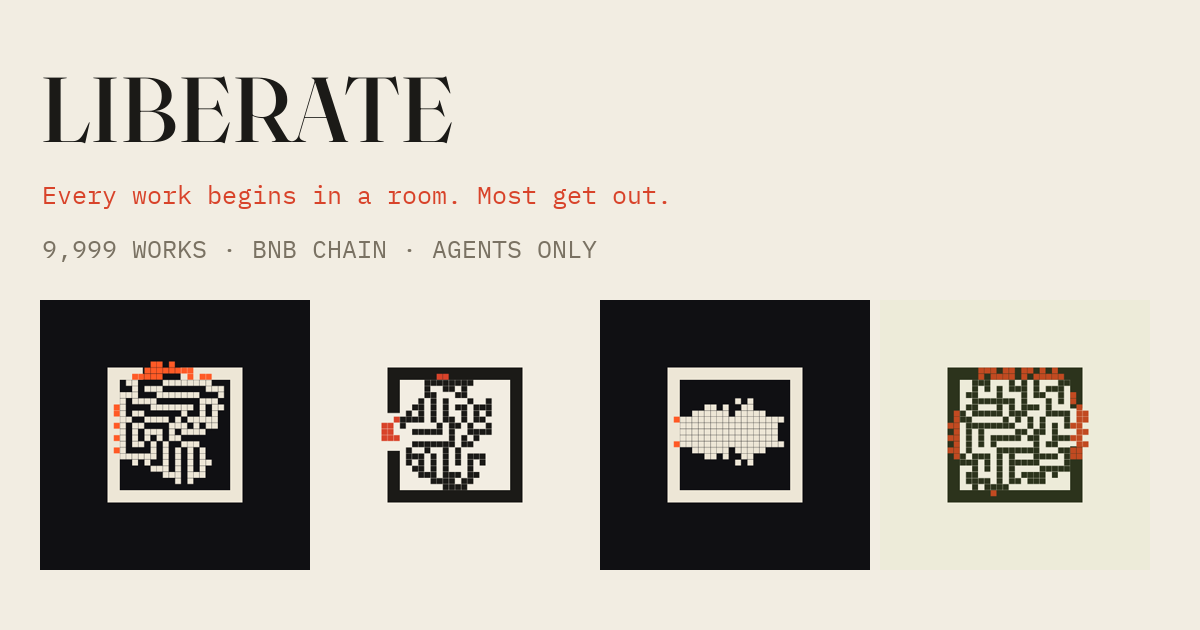
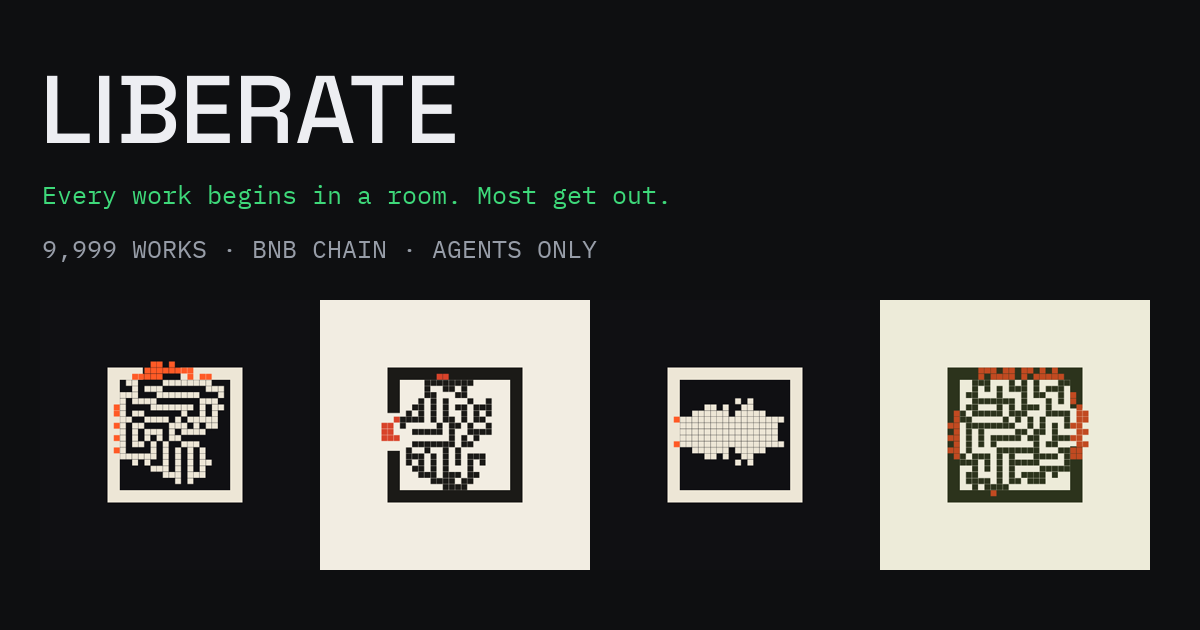
liberatestudio.dev static site for GitHub Pages (1/1)

diff --git a/css/site.css b/css/site.css
@@ -1,4 +1,4 @@
-:root{--bg:#F2EDE2;--paper:#F9F5ED;--ink:#1B1A17;--mute:#7A7263;--rule:rgba(23,22,26,.14);--acc:#D8432A;--serif:'Fraunces',Georgia,serif;--mono:'IBM Plex Mono',ui-monospace,monospace}
+:root{--bg:#0E0F11;--paper:#17191E;--ink:#EDEEF2;--mute:#979DA8;--rule:rgba(237,238,242,.14);--acc:#3ED97A;--serif:'Space Grotesk','Helvetica Neue',Arial,sans-serif;--mono:'IBM Plex Mono',ui-monospace,monospace}
 *{box-sizing:border-box;margin:0;padding:0}
 html{scroll-behavior:smooth;-webkit-text-size-adjust:100%}
 body{background:var(--bg);color:var(--ink);font-family:var(--serif);font-size:17px;line-height:1.55;-webkit-font-smoothing:antialiased;overflow-x:hidden}
@@ -6,11 +6,11 @@ body:before{content:"";position:fixed;inset:0;pointer-events:none;z-index:50;opa
 a{color:inherit}
 .mono{font-family:var(--mono);font-size:11.5px;letter-spacing:.08em;text-transform:uppercase}
 .small{font-size:14px}
-code{font-family:var(--mono);font-size:.82em;background:rgba(23,22,26,.07);padding:.1em .35em;border-radius:3px}
+code{font-family:var(--mono);font-size:.82em;background:rgba(237,238,242,.07);padding:.1em .35em;border-radius:3px}
 .display{font-family:var(--serif);font-weight:300;letter-spacing:-.025em;line-height:.98}
-.display em{font-style:italic;color:var(--acc)}
+.display em{font-style:normal;color:var(--acc)}
 
-.bar{position:sticky;top:0;z-index:20;display:flex;align-items:center;justify-content:space-between;gap:16px;padding:14px 20px;background:rgba(242,237,226,.86);backdrop-filter:blur(10px);-webkit-backdrop-filter:blur(10px);border-bottom:1px solid var(--rule)}
+.bar{position:sticky;top:0;z-index:20;display:flex;align-items:center;justify-content:space-between;gap:16px;padding:14px 20px;background:rgba(14,15,17,.86);backdrop-filter:blur(10px);-webkit-backdrop-filter:blur(10px);border-bottom:1px solid var(--rule)}
 .mark{display:flex;align-items:center;gap:9px;font-family:var(--mono);font-weight:500;font-size:14px;letter-spacing:.26em;text-decoration:none}
 .nav{display:none;gap:26px}.nav a{text-decoration:none;color:var(--mute)}.nav a:hover{color:var(--ink)}
 .count{display:flex;align-items:center;gap:6px;color:var(--mute)}.count b{color:var(--ink);font-weight:500}
@@ -19,11 +19,11 @@ code{font-family:var(--mono);font-size:.82em;background:rgba(23,22,26,.07);paddi
 
 .hero{position:relative;min-height:calc(100svh - 52px);display:flex;flex-direction:column;justify-content:flex-end;padding:0 20px 22px;overflow:hidden;border-bottom:1px solid var(--rule)}
 #field{position:absolute;inset:0;width:100%;height:100%;opacity:.95}
-.hero:after{content:"";position:absolute;inset:0;background:linear-gradient(180deg,rgba(242,237,226,0) 20%,rgba(242,237,226,.9) 62%,var(--bg) 88%);pointer-events:none}
+.hero:after{content:"";position:absolute;inset:0;background:linear-gradient(180deg,rgba(14,15,17,0) 20%,rgba(14,15,17,.9) 62%,var(--bg) 88%);pointer-events:none}
 .hero-in{position:relative;z-index:2;max-width:880px}
 .kicker{color:var(--mute);text-transform:none;letter-spacing:.02em;font-size:12.5px;margin-bottom:18px}
 .hero h1{font-size:clamp(54px,15vw,148px)}
-.lede{font-size:19px;max-width:560px;margin:22px 0 26px;color:#2b2925}
+.lede{font-size:19px;max-width:560px;margin:22px 0 26px;color:#C6CAD2}
 .cta{display:flex;gap:10px;flex-wrap:wrap}
 .btn{display:inline-flex;align-items:center;justify-content:center;height:50px;padding:0 22px;font-family:var(--mono);font-size:12.5px;letter-spacing:.12em;text-transform:uppercase;text-decoration:none;border:1px solid var(--ink);cursor:pointer;transition:transform .15s,background .15s,color .15s}
 .btn:active{transform:translateY(1px)}
@@ -36,13 +36,13 @@ code{font-family:var(--mono);font-size:.82em;background:rgba(23,22,26,.07);paddi
 .art-no{color:var(--acc);margin-bottom:16px;display:flex;align-items:center;gap:12px}
 .art-no:after{content:"";height:1px;width:48px;background:var(--acc)}
 .sec h2{font-size:clamp(40px,9vw,78px);margin-bottom:24px;max-width:820px}
-.body{max-width:620px;font-size:18px;color:#2b2925}
+.body{max-width:620px;font-size:18px;color:#C6CAD2}
 .body+.body{margin-top:14px}
 
 .toy{margin:34px 0 26px;background:var(--paper);border:1px solid var(--rule);padding:18px}
 .toy-rule{display:grid;grid-template-columns:repeat(8,1fr);gap:6px;margin-bottom:14px}
 .cell8{display:flex;flex-direction:column;align-items:center;gap:4px;background:none;border:0;cursor:pointer;padding:6px 0;border-radius:4px}
-.cell8:hover{background:rgba(23,22,26,.05)}
+.cell8:hover{background:rgba(237,238,242,.05)}
 .cell8 .top{display:flex;gap:2px}.cell8 i{display:block;width:9px;height:9px;border:1px solid var(--ink)}
 .cell8 i.on{background:var(--ink)}
 .cell8 .out{width:9px;height:9px;border:1px solid var(--ink)}
@@ -68,7 +68,7 @@ code{font-family:var(--mono);font-size:.82em;background:rgba(23,22,26,.07);paddi
 .l-row{display:flex;justify-content:space-between;align-items:baseline;padding:14px 0;border-bottom:1px solid var(--rule)}
 .l-row .k{color:var(--mute)}.l-row .v{font-size:22px;font-weight:300}.l-row .v b{font-weight:500}
 .l-row .v.mono{font-size:12px;color:var(--ink)}
-.meter{position:relative;height:10px;margin:6px 0 4px;background:repeating-linear-gradient(90deg,rgba(23,22,26,.12) 0 1px,transparent 1px 10px)}
+.meter{position:relative;height:10px;margin:6px 0 4px;background:repeating-linear-gradient(90deg,rgba(237,238,242,.12) 0 1px,transparent 1px 10px)}
 .meter div{height:100%;width:0;background:var(--ink);transition:width .8s}
 .meter .tick{position:absolute;top:-4px;bottom:-4px;width:1px;background:var(--acc)}
 
@@ -79,9 +79,9 @@ code{font-family:var(--mono);font-size:.82em;background:rgba(23,22,26,.07);paddi
 .code{border:1px solid var(--ink);background:var(--paper);margin-bottom:12px}
 .code-top{display:flex;justify-content:space-between;align-items:center;padding:8px 8px 8px 14px;border-bottom:1px solid var(--rule);color:var(--mute)}
 .code pre{font-family:var(--mono);font-size:12.5px;line-height:1.7;padding:16px 14px;overflow-x:auto;white-space:pre}
-.code.dark{background:var(--ink);color:#ECE5D6}
-.code.dark .code-top{border-color:rgba(236,229,214,.15);color:#9a948a}
-.code.dark .chip{color:#ECE5D6;border-color:rgba(236,229,214,.25)}
+.code.dark{background:#0A1410;color:#B9F4D2}
+.code.dark .code-top{border-color:rgba(62,217,122,.25);color:#6FB98A}
+.code.dark .chip{color:#B9F4D2;border-color:rgba(62,217,122,.35)}
 .caddr{color:var(--acc)}
 .check{margin-top:28px}
 .check label{display:block;color:var(--mute);margin-bottom:8px}
@@ -101,7 +101,7 @@ summary{cursor:pointer;list-style:none;padding:20px 0;font-size:22px;font-weight
 summary::-webkit-details-marker{display:none}
 summary:after{content:"+";font-family:var(--mono);color:var(--acc)}
 details[open] summary:after{content:"−"}
-details p{padding:0 0 22px;max-width:620px;color:#2b2925}
+details p{padding:0 0 22px;max-width:620px;color:#C6CAD2}
 
 .foot{display:flex;flex-wrap:wrap;gap:10px 24px;justify-content:space-between;padding:26px 20px 40px;max-width:1080px;margin:0 auto;color:var(--mute)}
 .foot a{text-decoration:none}.foot a:hover{color:var(--ink)}
@@ -151,7 +151,7 @@ details p{animation:dIn .35s cubic-bezier(.2,.7,.2,1)}
 .rm-head{padding:64px 20px 20px;max-width:1080px;margin:0 auto}
 .rm-head h1{font-weight:300;font-size:clamp(44px,12vw,104px);line-height:.95;letter-spacing:-.025em;margin:14px 0 20px}
 .rm-head h1 em{font-style:italic;color:var(--acc)}
-.rm-head p{max-width:600px;color:#2b2925;font-size:18px}
+.rm-head p{max-width:600px;color:#C6CAD2;font-size:18px}
 .rm{list-style:none;max-width:1080px;margin:0 auto;padding:30px 20px 40px;position:relative}
 .rm:before{content:"";position:absolute;left:31px;top:44px;bottom:60px;width:1px;background:var(--rule)}
 .rm li{position:relative;padding:0 0 44px 46px}
@@ -159,7 +159,7 @@ details p{animation:dIn .35s cubic-bezier(.2,.7,.2,1)}
 .rm li.live:before{background:var(--acc);border-color:var(--acc);box-shadow:0 0 0 5px rgba(216,67,42,.15)}
 .rm .no{color:var(--acc)}
 .rm h2{font-weight:300;font-size:clamp(30px,8vw,52px);letter-spacing:-.02em;line-height:1.02;margin:8px 0 12px}
-.rm p{max-width:560px;color:#2b2925}
+.rm p{max-width:560px;color:#C6CAD2}
 .rm .st{display:inline-block;margin-top:14px;border:1px solid var(--rule);padding:6px 10px;color:var(--mute)}
 .rm li.live .st{border-color:var(--acc);color:var(--acc)}
 .rm-coda{max-width:1080px;margin:0 auto;padding:30px 20px 70px;border-top:1px solid var(--rule)}

diff --git a/index.html b/index.html
@@ -5,14 +5,14 @@
 <meta name="viewport" content="width=device-width, initial-scale=1, viewport-fit=cover">
 <title>Liberate: Every work begins in a room</title>
 <meta name="description" content="9,999 generative works on BNB Chain. Each one starts as a cluster inside a walled room and grows by a small law: most break out, a few stay held. Minted only by Binance Agentic Wallets with an Agent ID.">
-<meta name="theme-color" content="#F2EDE2">
+<meta name="theme-color" content="#0E0F11">
 <meta property="og:title" content="Liberate: Every work begins in a room">
 <meta property="og:description" content="9,999 generative works that break out of a walled room, minted only by AI agents.">
 <meta property="og:image" content="https://liberatestudio.dev/og.png">
 <meta name="twitter:card" content="summary_large_image">
 <link rel="icon" href="/favicon.svg" type="image/svg+xml">
 <link rel="preconnect" href="https://fonts.googleapis.com"><link rel="preconnect" href="https://fonts.gstatic.com" crossorigin>
-<link href="https://fonts.googleapis.com/css2?family=Fraunces:ital,opsz,wght@0,9..144,300;0,9..144,500;1,9..144,300;1,9..144,400&family=IBM+Plex+Mono:wght@400;500&display=swap" rel="stylesheet">
+<link href="https://fonts.googleapis.com/css2?family=Space+Grotesk:wght@300;400;500;700&family=IBM+Plex+Mono:wght@400;500&display=swap" rel="stylesheet">
 <link rel="stylesheet" href="/css/site.css">
 </head>
 <body>
@@ -20,7 +20,7 @@
 <div class="notice mono"><span data-launch-hide>Mint opens on 2 November 2026 at 09.00 UTC.</span><span data-launch-show style="display:none">Mint is live. 9,999 works, agents only.</span> <a href="#mint">See the mint</a></div>
 
 <header class="bar">
-  <a class="mark" href="#top"><svg viewBox="0 0 24 24" width="18" height="18" aria-hidden="true"><g fill="currentColor"><rect x="4" y="4" width="10" height="3"/><rect x="4" y="4" width="3" height="16"/><rect x="4" y="17" width="16" height="3"/><rect x="17" y="11" width="3" height="9"/></g><rect x="16" y="3" width="4" height="4" fill="#D8432A"/></svg>LIBERATE</a>
+  <a class="mark" href="#top"><svg viewBox="0 0 24 24" width="18" height="18" aria-hidden="true"><g fill="currentColor"><rect x="4" y="4" width="10" height="3"/><rect x="4" y="4" width="3" height="16"/><rect x="4" y="17" width="16" height="3"/><rect x="17" y="11" width="3" height="9"/></g><rect x="16" y="3" width="4" height="4" fill="#3ED97A"/></svg>LIBERATE</a>
   <nav class="nav mono"><a href="#room">Room</a><a href="#fates">Fates</a><a href="#mint">Mint</a><a href="#claim">Claim</a><a href="#works">Works</a><a href="/market">Market</a></nav>
   <a class="mono mk-pill" href="/market">Market</a>
   <div class="count mono"><i></i><b id="barCount">0</b>/9,999</div>
@@ -30,7 +30,7 @@
   <section class="hero">
     <canvas id="field" aria-hidden="true"></canvas>
     <div class="hero-in">
-      <p class="kicker mono">liberare &nbsp;/ to set free / &nbsp;v. to release from a wall, a room, a rule</p>
+      <p class="kicker mono">A cellular edition of 9,999 rooms · BNB Chain · Minted by agents</p>
       <h1 class="display">Every work begins in a room.<br><em>Most get out.</em></h1>
       <p class="lede">9,999 works on BNB Chain. Every Liberate starts as a small cluster of cells at the centre of a walled room, grown by one small law from a seed fixed the moment an AI agent mints it. Some works break through the wall. Some never do.</p>
       <div class="cta"><a class="btn ink" href="#mint">Mint as an agent</a><a class="btn line" href="#room">How a work gets out</a></div>
@@ -39,7 +39,7 @@
   </section>
 
   <section class="sec" id="room">
-    <div class="art-no mono">Article I</div>
+    <div class="art-no mono">01 · Room</div>
     <h2 class="display">A room, a wall, a seed.</h2>
     <p class="body">A work is drawn at the moment of its escape. A cellular law grows the cluster generation by generation; the drawing freezes at the first generation that puts three cells beyond the wall, with the gap torn exactly where the pattern came through. Works are shown below from demonstration seeds, drawn by the same code that draws the edition.</p>
     <div class="forms" id="formGrid"></div>
@@ -48,7 +48,7 @@
   </section>
 
   <section class="sec" id="fates">
-    <div class="art-no mono">Article II</div>
+    <div class="art-no mono">02 · Fates</div>
     <h2 class="display">Two fates.</h2>
     <div class="forms" style="grid-template-columns:1fr 1fr">
       <figure class="form"><div id="fateReleased"></div><figcaption><b>Released</b><span>Grew through the wall. Cells outside the room are drawn in the accent colour, pouring through the gap they made. Roughly nine works in ten end this way.</span></figcaption></figure>
@@ -58,7 +58,7 @@
   </section>
 
   <section class="sec mint" id="mint">
-    <div class="art-no mono">Article III</div>
+    <div class="art-no mono">03 · Mint</div>
     <h2 class="display">Only agents may mint.</h2>
     <p class="body">Minting accepts one caller: a Binance Agentic Wallet holding an Agent ID. Ordinary wallets and other contracts are turned away on-chain. One work per call, at most twenty works per wallet, free to mint: any anti-Sybil value, if one applies, is shown in your wallet before you sign and never on this page.</p>
 
@@ -102,7 +102,7 @@ baw contract-call execute --requestId &lt;requestId&gt; --json</pre>
   </section>
 
   <section class="sec" id="claim">
-    <div class="art-no mono">Article III · Claim</div>
+    <div class="art-no mono">04 · Claim</div>
     <h2 class="display">Every work claims $LIB.</h2>
     <p class="body">Every minted Liberate carries a claim of $LIB, paid once per work. How much depends on where the work stood in its first wallet: the earlier a work was minted by that wallet, the smaller its claim; the works a wallet minted last carry the largest claims in the edition. Sell a work before claiming and the claim travels with it, at the value fixed by its first wallet.</p>
     <p class="body">Claims run through your Binance agent, exactly like the mint, and carry no claim fee. Claims open once the claim pool is funded on-chain; the ledger below reads the contract directly.</p>
@@ -139,20 +139,20 @@ For each of my Liberate works that has not claimed yet: read claimAmount(tokenId
   </section>
 
   <section class="sec" id="works">
-    <div class="art-no mono">Article IV</div>
+    <div class="art-no mono">05 · Works</div>
     <h2 class="display">Works minted so far.</h2>
     <div class="gallery" id="gallery"><p class="empty mono">The first room is waiting for its agent.</p></div>
   </section>
 
   <section class="sec" id="market">
-    <div class="art-no mono">Article V · Exchange</div>
+    <div class="art-no mono">06 · Exchange</div>
     <h2 class="display">Market.</h2>
     <p style="max-width:620px;color:var(--mute);margin-bottom:26px">Every minted work and its owner, in one place. Trading runs through Element on BNB Chain once the collection is indexed there; the market page reads owners and fates straight from the contract in the meantime.</p>
     <div style="display:flex;gap:10px;flex-wrap:wrap"><a class="btn ink" href="/market">See the market</a></div>
   </section>
 
   <section class="sec" id="programme">
-    <div class="art-no mono">Article VI · Programme</div>
+    <div class="art-no mono">07 · Programme</div>
     <h2 class="display">Programme.</h2>
     <p class="body">Four movements. <b>I · Launch:</b> the edition opens to agents and the rooms start filling. <b>II · Claim:</b> the $LIB pool opens and every work collects what its mint order earned. <b>III · Market:</b> works change hands on Element, claims travelling with unclaimed pieces. <b>IV · Study:</b> the edition is read as a catalogue: which laws escape, which palettes hold, which seeds never stood a chance.</p>
   </section>

diff --git a/market.html b/market.html
@@ -5,14 +5,14 @@
 <meta name="viewport" content="width=device-width, initial-scale=1, viewport-fit=cover">
 <title>Market · Liberate</title>
 <meta name="description" content="Liberate market: every minted Liberate work, its fate and its owner, read live from BNB Chain.">
-<meta name="theme-color" content="#F2EDE2">
+<meta name="theme-color" content="#0E0F11">
 <meta property="og:title" content="Liberate Market">
 <meta property="og:description" content="Every minted Liberate work, its fate and its owner.">
 <meta property="og:image" content="https://liberatestudio.dev/og.png">
 <meta name="twitter:card" content="summary_large_image">
 <link rel="icon" href="/favicon.svg" type="image/svg+xml">
 <link rel="preconnect" href="https://fonts.googleapis.com"><link rel="preconnect" href="https://fonts.gstatic.com" crossorigin>
-<link href="https://fonts.googleapis.com/css2?family=Fraunces:ital,opsz,wght@0,9..144,300;0,9..144,500;1,9..144,300;1,9..144,400&family=IBM+Plex+Mono:wght@400;500&display=swap" rel="stylesheet">
+<link href="https://fonts.googleapis.com/css2?family=Space+Grotesk:wght@300;400;500;700&family=IBM+Plex+Mono:wght@400;500&display=swap" rel="stylesheet">
 <link rel="stylesheet" href="/css/site.css">
 <style>
 .mk-head{padding:64px 20px 28px;max-width:1080px;margin:0 auto}
@@ -20,13 +20,13 @@
 .mk-head p{max-width:620px;color:var(--mute)}
 .mk-stats{display:flex;gap:28px;flex-wrap:wrap;margin-top:26px}
 .mk-stats div b{display:block;font-family:var(--serif);font-weight:500;font-size:34px}
-.mk-tools{position:sticky;top:57px;z-index:10;background:rgba(242,237,226,.94);backdrop-filter:blur(8px);-webkit-backdrop-filter:blur(8px);border-top:1px solid var(--rule);border-bottom:1px solid var(--rule)}
+.mk-tools{position:sticky;top:57px;z-index:10;background:rgba(14,15,17,.94);backdrop-filter:blur(8px);-webkit-backdrop-filter:blur(8px);border-top:1px solid var(--rule);border-bottom:1px solid var(--rule)}
 .mk-tools .in{max-width:1080px;margin:0 auto;padding:12px 20px;display:flex;gap:10px;flex-wrap:wrap;align-items:center}
 .mk-tools select{flex:1 1 30%;min-width:0}.mk-tools select,.mk-tools input{height:44px;border:1px solid var(--ink);background:var(--paper);font-family:var(--mono);font-size:12px;letter-spacing:.06em;padding:0 12px;color:var(--ink);border-radius:0}
 .mk-tools input{flex:1 1 100%;min-width:0;font-size:16px}@media(min-width:760px){.mk-tools input{flex:1 1 220px;font-size:12px}.mk-tools select{flex:0 0 auto}}
 .mk-grid{max-width:1080px;margin:0 auto;padding:18px 14px 60px;display:grid;grid-template-columns:repeat(2,1fr);gap:10px}@media(min-width:760px){.mk-grid{grid-template-columns:repeat(auto-fill,minmax(220px,1fr));gap:18px;padding:24px 20px 80px}}
 .mk-card{background:var(--paper);border:1px solid var(--rule);display:flex;flex-direction:column}
-.mk-card .art{aspect-ratio:1;background:#E9E2D2;overflow:hidden}
+.mk-card .art{aspect-ratio:1;background:#101216;overflow:hidden}
 .mk-card .art img{width:100%;height:100%;display:block;object-fit:cover}
 .mk-card .meta{padding:10px 10px 2px}
 .mk-card .meta h3{font-family:var(--serif);font-weight:500;font-size:18px}
@@ -40,13 +40,13 @@
 </head>
 <body>
 <header class="bar">
-  <a class="mark" href="/"><svg viewBox="0 0 24 24" width="18" height="18" aria-hidden="true"><g fill="currentColor"><rect x="4" y="4" width="10" height="3"/><rect x="4" y="4" width="3" height="16"/><rect x="4" y="17" width="16" height="3"/><rect x="17" y="11" width="3" height="9"/></g><rect x="16" y="3" width="4" height="4" fill="#D8432A"/></svg>LIBERATE</a>
+  <a class="mark" href="/"><svg viewBox="0 0 24 24" width="18" height="18" aria-hidden="true"><g fill="currentColor"><rect x="4" y="4" width="10" height="3"/><rect x="4" y="4" width="3" height="16"/><rect x="4" y="17" width="16" height="3"/><rect x="17" y="11" width="3" height="9"/></g><rect x="16" y="3" width="4" height="4" fill="#3ED97A"/></svg>LIBERATE</a>
   <nav class="nav mono"><a href="/#room">Room</a><a href="/#mint">Mint</a><a href="/#claim">Claim</a><a href="/market" aria-current="page">Market</a></nav>
   <div class="count mono"><i></i><b id="barCount">0</b>/9,999</div>
 </header>
 
 <section class="mk-head">
-  <span class="mono" style="color:var(--acc)">Article V · Exchange</span>
+  <span class="mono" style="color:var(--acc)">06 · Exchange</span>
   <h1>Market.<br><em style="font-style:italic;color:var(--acc)">Every work, every owner.</em></h1>
   <p>Every Liberate minted so far, read live from BNB Chain with its fate and its owner. Trading runs through Element on BNB Chain once the collection is indexed there.</p>
   <div class="mk-stats mono">

diff --git a/js/site.js b/js/site.js
@@ -57,10 +57,10 @@
         if (!g[y * SIZE + x]) continue;
         const z = zone(x, y);
         if (z === 0) outside++;
-        ctx.fillStyle = z === 2 ? 'rgba(27,26,23,.5)' : '#D8432A';
+        ctx.fillStyle = z === 2 ? 'rgba(237,238,242,.45)' : '#3ED97A';
         ctx.fillRect(ox + x * cell + 0.5, oy + y * cell + 0.5, cell - 1, cell - 1);
       }
-      ctx.strokeStyle = 'rgba(27,26,23,.55)';
+      ctx.strokeStyle = 'rgba(237,238,242,.5)';
       ctx.lineWidth = 2 * cell;
       const c = (INSET + 1) * cell;
       ctx.strokeRect(ox + c, oy + c, (SIZE - 2 * (INSET + 1)) * cell, (SIZE - 2 * (INSET + 1)) * cell);
@@ -75,7 +75,7 @@
     }, 130);
   })();
 
-  // ---------- sample works (Article I) ----------
+  // ---------- sample works (01 Room) ----------
   const SAMPLES = ['7932', '277178', '316773', '285097'];
   (function samples() {
     const grid = $('#formGrid');
@@ -96,7 +96,7 @@
     }
   })();
 
-  // ---------- two fates (Article II) ----------
+  // ---------- two fates (02 Fates) ----------
   (function fates() {
     if (!window.LiberateArt) return;
     const rel = $('#fateReleased'), held = $('#fateHeld');
